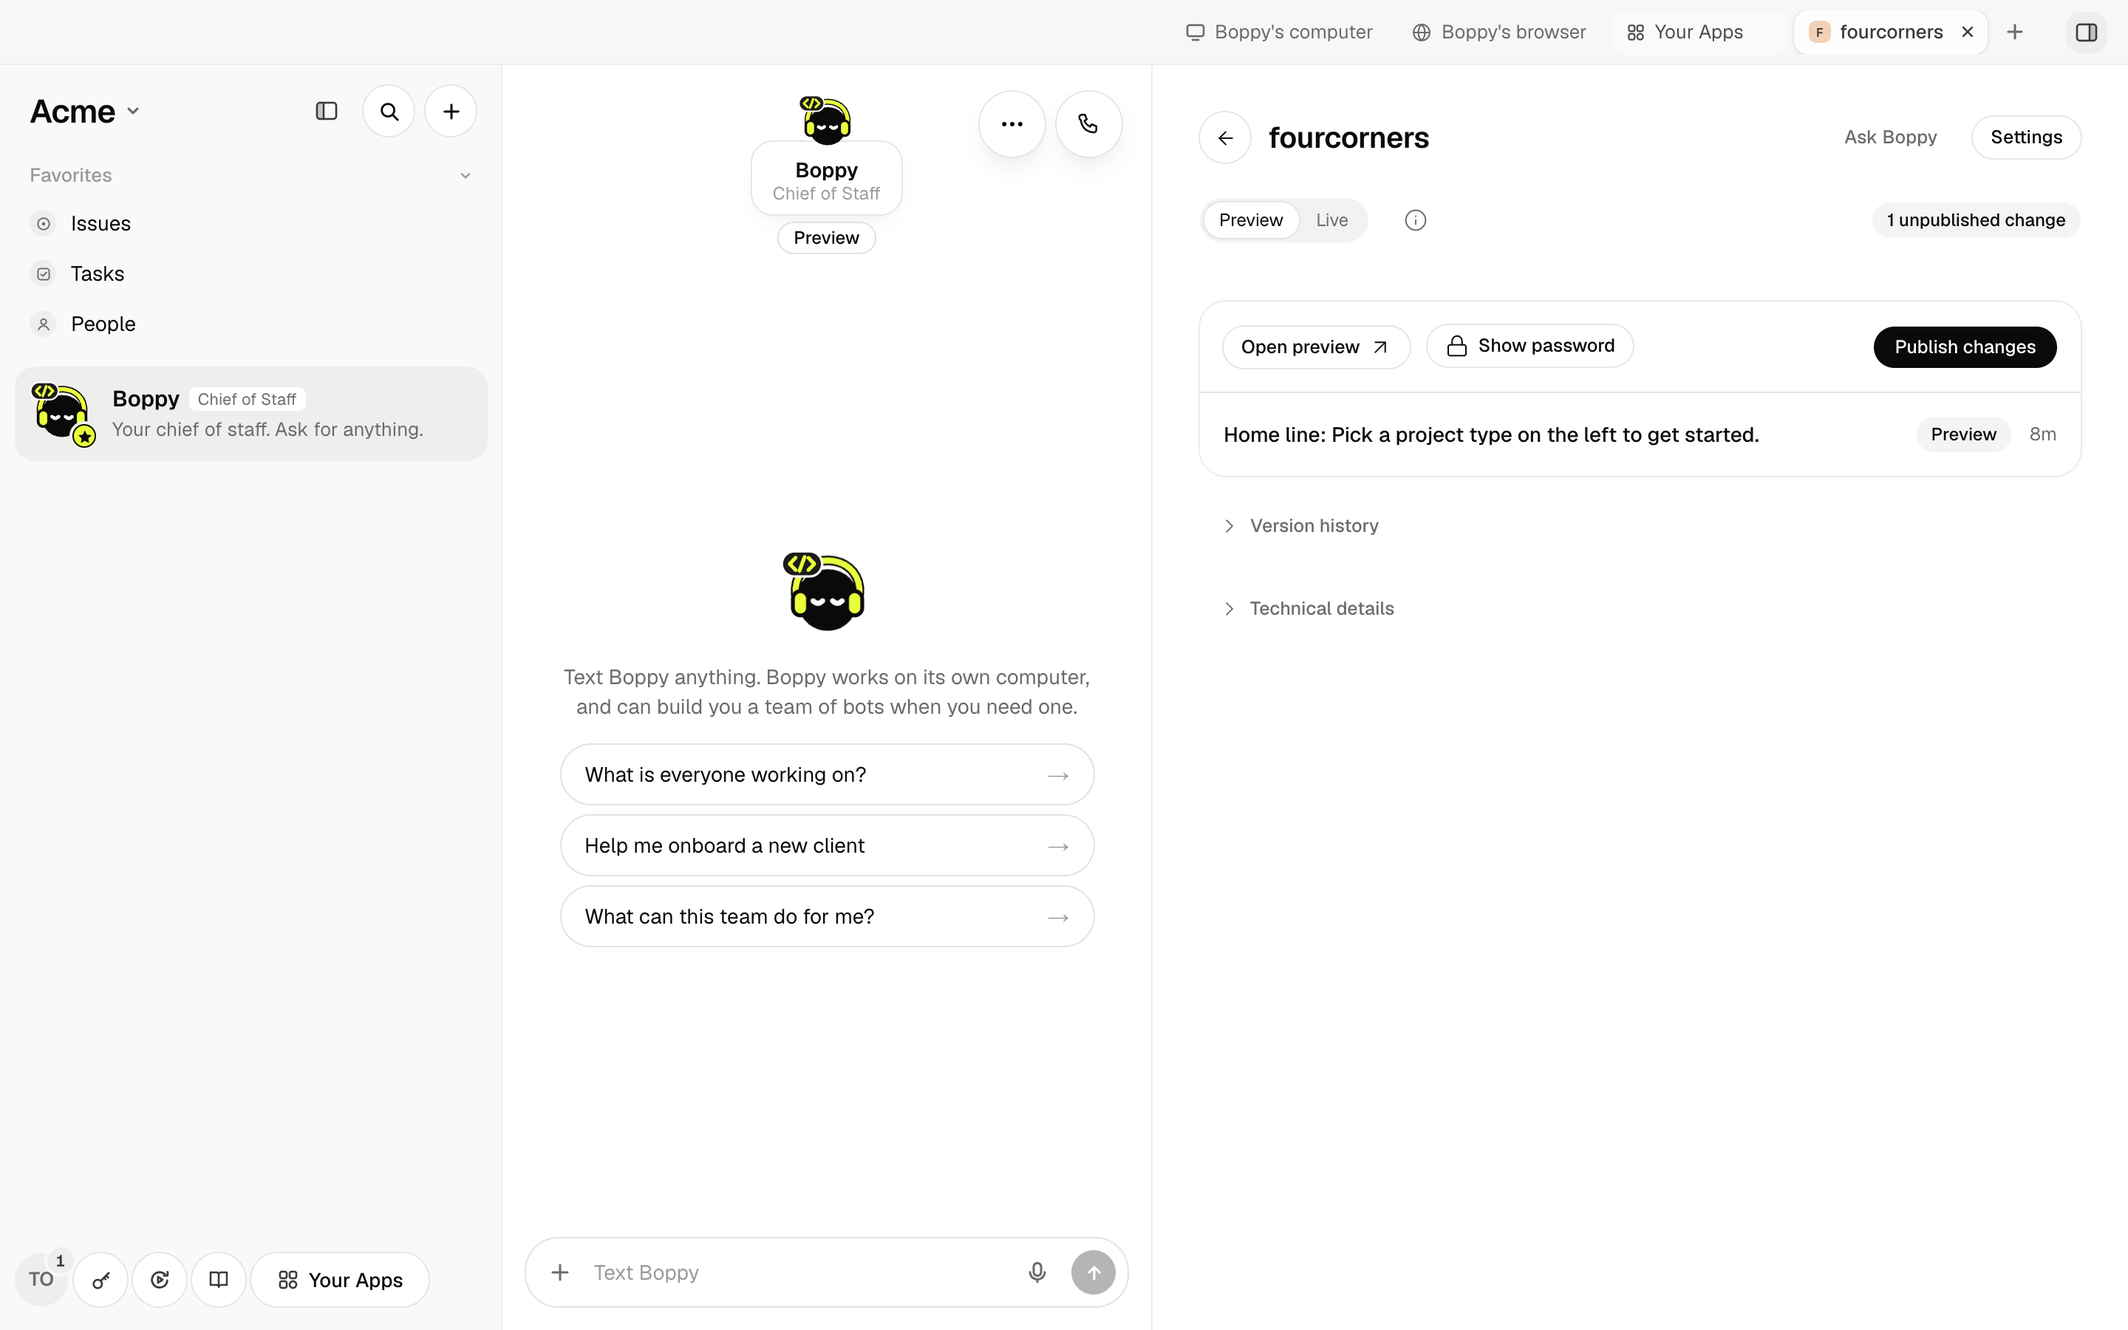
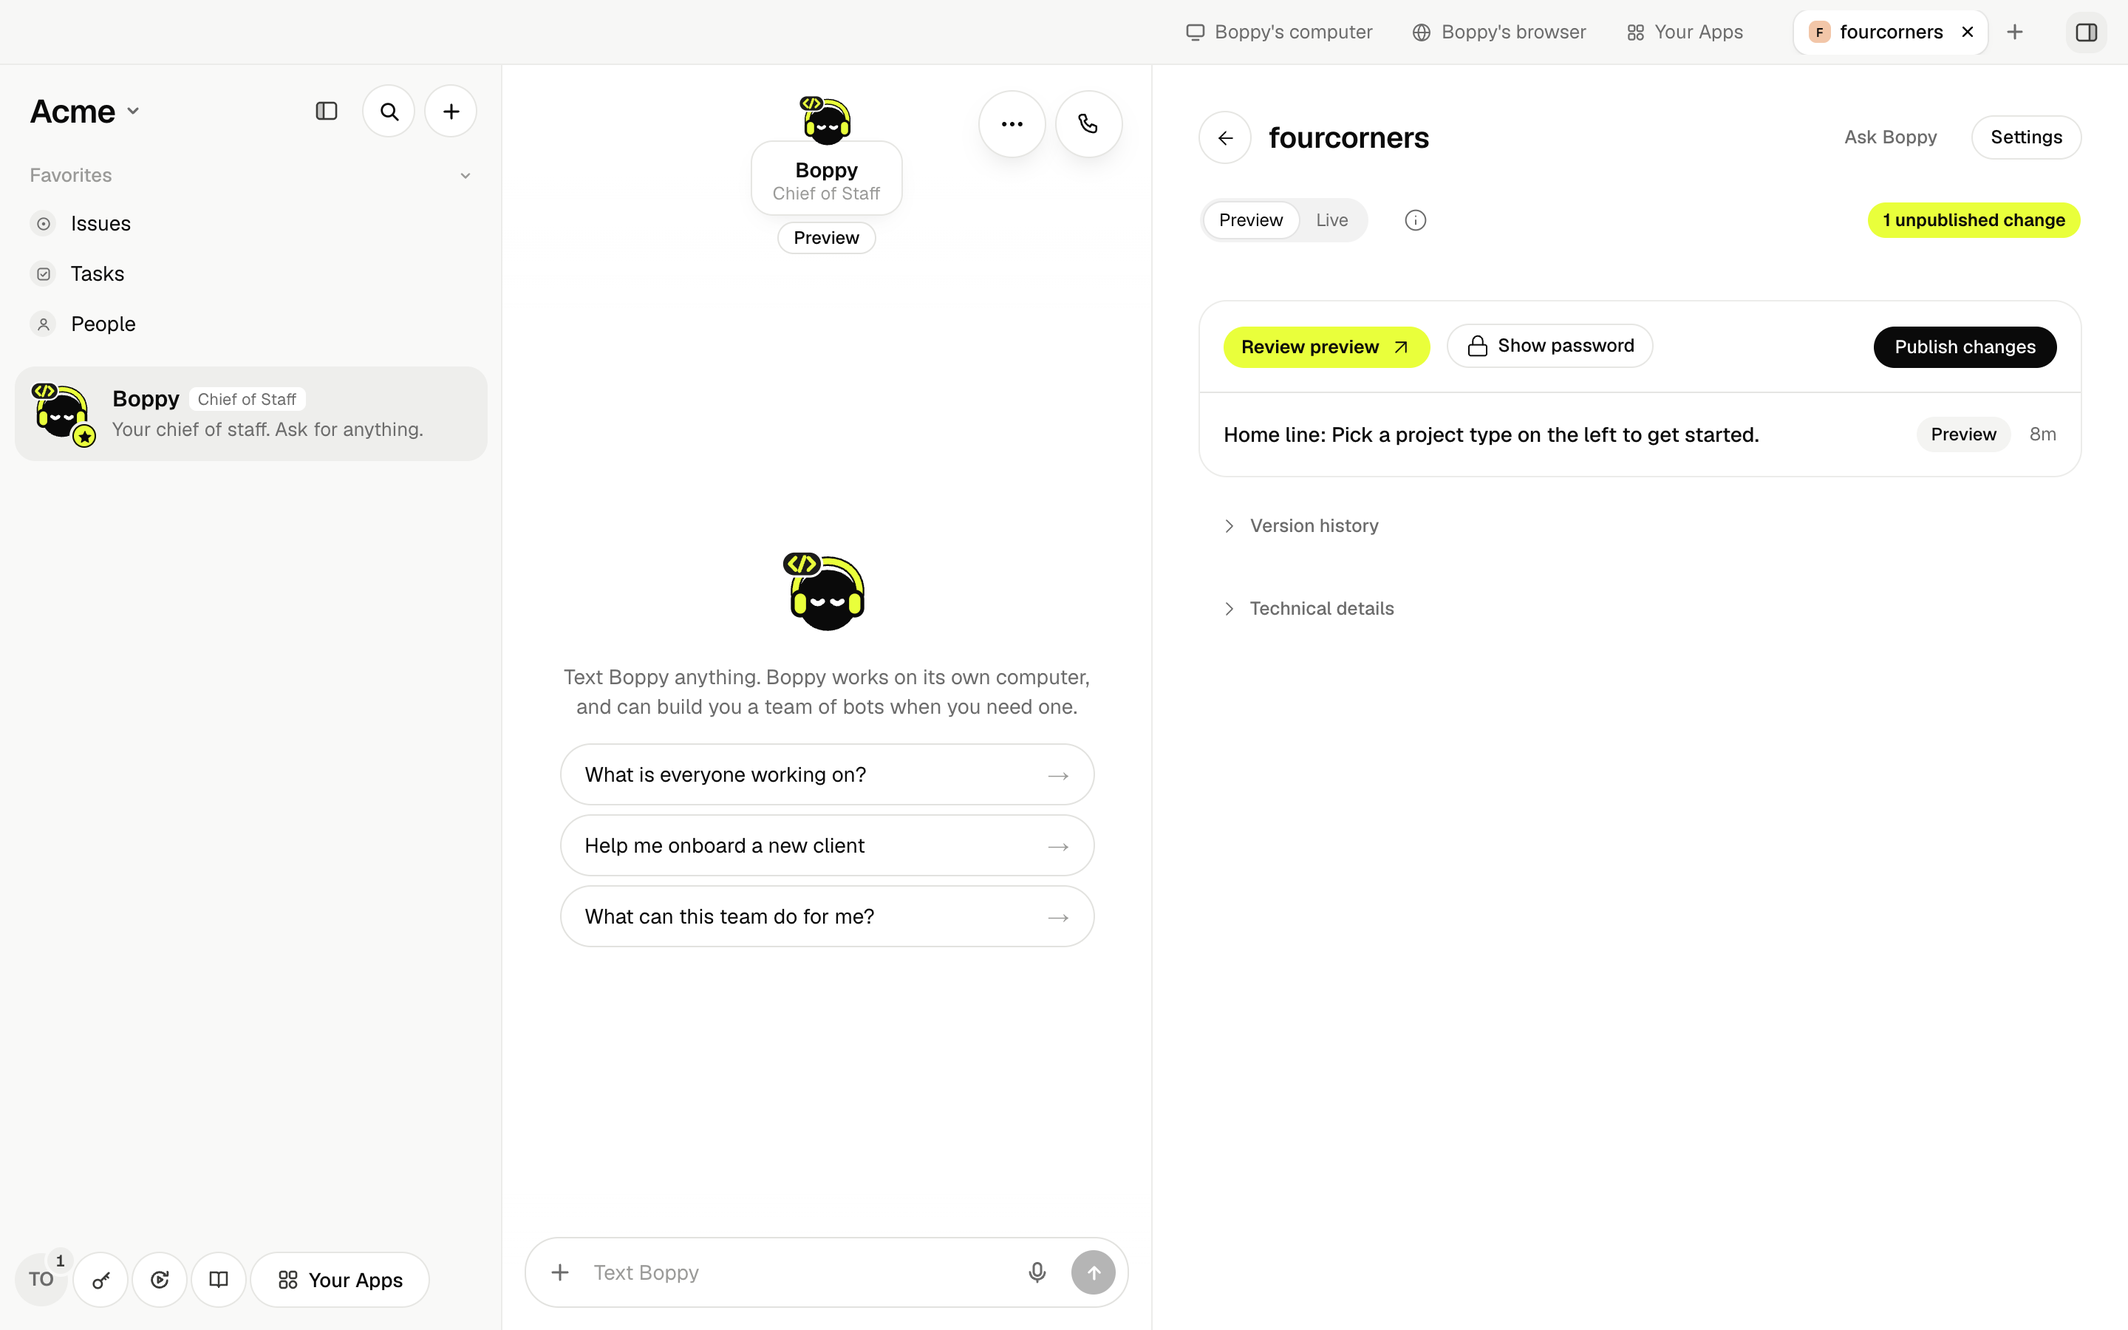
Your Apps: highlight unpublished previews for review

diff --git a/components/app/app-review.tsx b/components/app/app-review.tsx
@@ -3,8 +3,8 @@
 import { useRef, useState, type ReactNode } from "react";
 import { ArrowUpRight, Check, Copy, Info, Lock } from "lucide-react";
 import type { AppCommit } from "@/lib/hosted-apps";
-import { reviewLabel, type ReviewStatus } from "@/lib/app-review";
-import { AppDisclosure, appGhost, appIcon, appList, appOutline, appPrimary, appRow, appTag, segment, segmented } from "./app-controls";
+import { hasUnpublishedPreview, reviewLabel, type ReviewStatus } from "@/lib/app-review";
+import { AppDisclosure, appAttention, appAttentionTag, appGhost, appIcon, appList, appOutline, appPrimary, appRow, appTag, segment, segmented } from "./app-controls";
 import { Fold } from "./fold";
 import { useDismiss } from "./new-thread";
 import { ago, AskInPlace } from "./ui";
@@ -57,17 +57,18 @@ export function AppReview({ status, previewUrl, liveUrl, previewAt, publishedAt,
   const why = update ? whyUpdate : whyPublish;
   const url = env === "preview" ? previewUrl : liveUrl;
   const moved = !!confirm && (confirm.at !== previewAt || confirm.destination !== destination);
-  return <div className="flex min-w-0 flex-col gap-5" data-review-content>
+  const unpublished = hasUnpublishedPreview(status);
+  return <div className="@container flex min-w-0 flex-col gap-5" data-review-content>
     <div className="flex flex-wrap items-center gap-3">
       <div role="tablist" aria-label="App view" className={segmented}>{(["preview", "prod"] as const).map(p => <button key={p} role="tab" aria-selected={env === p} data-tip={p === "preview" ? "Review changes here before publishing." : github ? "The version last sent to GitHub. Website deployment is managed there." : "The website your visitors use. Production is the technical name."} onClick={() => { onEnv?.(p); setConfirm(null); }} className={segment(env === p)}>{p === "preview" ? "Preview" : "Live"}</button>)}</div>
       <button className={appGhost} aria-label="About preview and live" aria-expanded={help} onClick={() => setHelp(!help)}><Info {...appIcon}/></button><span className="flex-1"/>
-      <span data-review-state className={appTag} data-tip={status.sentence}>{reviewLabel(status)}</span>
+      <span data-review-state className={unpublished ? appAttentionTag : appTag} data-tip={status.sentence}>{reviewLabel(status)}</span>
     </div>
-    <Fold lazy open={help}><div data-view-help className="flex flex-col gap-2 rounded-xl bg-desk p-3 text-[13px] leading-[18px]"><p><strong>Preview</strong> is your review copy, separate from your live website.</p><p><strong>Live</strong> {github ? "shows the version last sent to GitHub. Your website updates through its connected deployment." : "is the website visitors use."}</p></div></Fold>
+    <Fold lazy open={help}><div data-view-help className="flex flex-col gap-2 rounded-xl bg-desk p-3 text-[13px] leading-[18px]"><p><strong>Preview</strong> is your review copy. Review it before starting a different change; keep editing if you’re improving this one.</p><p><strong>Live</strong> {github ? "shows the version last sent to GitHub. Your website updates through its connected deployment." : "is the website visitors use."}</p></div></Fold>
     <div className="flex flex-col rounded-2xl shadow-[0_0_0_1px_#ECECEA]">
       <div className="flex flex-wrap items-center gap-3 px-4 py-4">
-        {url ? <a href={url} target="_blank" rel="noreferrer" className={appOutline}>{env === "preview" ? "Open preview" : "Open website"}<ArrowUpRight {...appIcon}/></a> : <span className="text-[13px] text-pencil">{env === "preview" ? "No preview yet" : github ? "Website address not available" : "Not live yet"}</span>}
-        {env === "preview" && password}<span className="flex-1"/>
+        {url ? <a href={url} target="_blank" rel="noreferrer" className={env === "preview" && unpublished && !confirm ? appAttention : appOutline}>{env === "preview" ? unpublished ? "Review preview" : "Open preview" : "Open website"}<ArrowUpRight {...appIcon}/></a> : <span className="text-[13px] text-pencil">{env === "preview" ? "No preview yet" : github ? "Website address not available" : "Not live yet"}</span>}
+        {env === "preview" && password}<span className="hidden flex-1 @[512px]:block"/>
         {env === "preview" && (onUpdate || onPublish || onDomain) && <span data-tip={why ?? status.sentence}><button data-review-publish className={appPrimary} disabled={busy || sending || !!why || (!status.action && !update) || (update ? !onUpdate : domain ? !onDomain : !onPublish)} onClick={() => { if (update) onUpdate?.(); else if (domain) onDomain?.(); else if (previewAt) setConfirm({ at: previewAt, note: change?.message ?? previewAt, destination }); }}>{busy || sending ? "Working…" : label}</button></span>}
       </div>
       <div className="flex items-center gap-3 border-t border-rule px-4 py-4"><span className="min-w-0 flex-1 truncate text-[14px] font-medium leading-[18px]" title={change?.message}>{change?.message.split("\n")[0] ?? (shown ? "Version details unavailable" : "No version here yet")}</span><span className={appTag}>{env === "preview" ? "Preview" : github ? "Sent to GitHub" : "Last published"}</span>{change && <span className="shrink-0 text-[12.5px] text-pencil">{ago(change.at)}</span>}</div>

diff --git a/components/app/hosted-apps.tsx b/components/app/hosted-apps.tsx
@@ -3,8 +3,8 @@
 import { Children, createContext, useContext, useEffect, useRef, useState, useSyncExternalStore, type ReactNode } from "react";
 import { flushSync } from "react-dom";
 import { ArrowLeft, Check, ChevronDown, ChevronRight, Copy, Globe, Lock, Pencil, Plus, Trash2 } from "lucide-react";
-import { AppDisclosure, appGhost, appIcon, appList, appOutline, appRow, segmented, segment } from "./app-controls";
-import { reviewLabel, statusForApp } from "@/lib/app-review";
+import { AppDisclosure, appAttention, appGhost, appIcon, appList, appOutline, appRow, segmented, segment } from "./app-controls";
+import { hasUnpublishedPreview, reviewLabel, statusForApp } from "@/lib/app-review";
 import { DNS_TYPES, dnsNeeds } from "@/lib/hosted-apps";
 import type {
   AddAppAnswer,
@@ -648,7 +648,7 @@ export function HostedAppsList({
                 <span className="flex min-w-0 flex-1 flex-col gap-0.5"><span className="truncate text-[14px] font-medium leading-[18px]">{a.name}</span><span data-member-act={!!theirs || undefined} className={`truncate text-[12.5px] leading-[17px] ${theirs && !theirs.ok ? "text-[#B42318]" : "text-pencil"}`} title={theirs ? actLine(theirs) : a.preview?.url ?? undefined}>{theirs ? actLine(theirs) : <><span className="hidden @[600px]:inline">{urlOf(a)?.replace(/^https?:\/\//, "") ?? a.preview?.url?.replace(/^https?:\/\//, "") ?? "No preview yet"}</span><span className="@[600px]:hidden">{label}</span></>}</span></span>
               </button>
               <span data-review-state className="hidden @[600px]:block w-[120px] shrink-0 text-right text-[12px] text-pencil" data-tip={status.sentence}>{label}</span>
-              <span className="flex w-[120px] shrink-0 justify-end"><button className={appOutline} onClick={(e) => { e.stopPropagation(); open?.(ws, a.name); }}>{status.action === "publish" ? "Review changes" : "Open app"}</button></span>
+              <span className="flex w-[120px] shrink-0 justify-end"><button className={hasUnpublishedPreview(status) ? appAttention : appOutline} onClick={(e) => { e.stopPropagation(); open?.(ws, a.name); }}>{status.action === "publish" ? "Review changes" : "Open app"}</button></span>
             </div>;
           })}
           {tools}

diff --git a/components/app/app-controls.tsx b/components/app/app-controls.tsx
@@ -6,12 +6,16 @@ import { Fold } from "./fold";
 
 // Recipes shared with CRM. Keep the app's existing type, radius, and material.
 export const appIcon = { size: 16, strokeWidth: 1.5, "aria-hidden": true as const };
-export const appOutline = "inline-flex shrink-0 items-center justify-center gap-1.5 rounded-full px-3 py-1.5 text-[12.5px] font-medium leading-4 text-ink shadow-[0_0_0_1px_#E6E6E3] hover:bg-desk disabled:text-pencil";
+const appAction = "inline-flex shrink-0 items-center justify-center gap-1.5 rounded-full px-3 py-1.5 text-[12.5px] leading-4 text-ink disabled:text-pencil";
+export const appOutline = `${appAction} font-medium shadow-[0_0_0_1px_#E6E6E3] hover:bg-desk`;
+export const appAttention = `${appAction} bg-highlighter font-semibold hover:bg-highlighter/80 disabled:bg-desk`;
 export const appPrimary = "inline-flex shrink-0 items-center justify-center rounded-full bg-ink px-3.5 py-1.5 text-[12.5px] font-medium leading-4 text-paper disabled:bg-desk disabled:text-pencil";
 export const appGhost = "inline-flex shrink-0 items-center gap-1.5 rounded-full px-3 py-1.5 text-[12.5px] font-medium leading-4 text-pencil hover:bg-desk hover:text-ink disabled:opacity-50";
 export const appList = "flex flex-col overflow-hidden rounded-2xl shadow-[0_0_0_1px_#ECECEA]";
 export const appRow = "flex items-center gap-3 border-b border-rule px-3.5 py-3 hover:bg-desk";
-export const appTag = "shrink-0 rounded-full bg-desk px-2.5 py-1 text-[12px] font-medium leading-4 text-ink";
+const appTagBase = "shrink-0 rounded-full px-2.5 py-1 text-[12px] leading-4 text-ink";
+export const appTag = `${appTagBase} bg-desk font-medium`;
+export const appAttentionTag = `${appTagBase} bg-highlighter font-semibold`;
 export const segmented = "flex shrink-0 gap-0.5 rounded-full bg-black/[0.05] p-[3px]";
 export const segment = (on: boolean, blocked = false) => `rounded-full px-2.5 py-1 text-[12px] leading-4 ${on ? "bg-paper text-ink shadow-[0_0_0_1px_#0000000F]" : blocked ? "cursor-default text-[#C9C9C6]" : "text-pencil hover:text-ink"}`;
 

diff --git a/components/app/shared-apps.tsx b/components/app/shared-apps.tsx
@@ -2,8 +2,8 @@
 
 import { ChevronDown, ChevronRight } from "lucide-react";
 import { appStatus, changesBetween, type DeployState } from "@/lib/hosted-apps";
-import { reviewLabel } from "@/lib/app-review";
-import { AppDisclosure, appIcon, appList, appOutline, appRow } from "./app-controls";
+import { hasUnpublishedPreview, reviewLabel } from "@/lib/app-review";
+import { AppDisclosure, appAttention, appIcon, appList, appOutline, appRow } from "./app-controls";
 import { AppPassword, AppReview, AppVersions } from "./app-review";
 import { Fold } from "./fold";
 import { useState } from "react";
@@ -135,7 +135,7 @@ function SharedAppCard({ app: a, apps, acts, publish }: { app: SharedApp; apps: 
           <span className="flex min-w-0 flex-1 flex-col gap-0.5"><span className="truncate text-[14px] font-medium leading-[18px]">{a.name}</span><span className="truncate text-[12.5px] leading-[17px] text-pencil">{a.url?.replace(/^https?:\/\//, "") ?? site?.preview?.replace(/^https?:\/\//, "") ?? "No preview yet"}</span></span>
         </button>
         <span className="hidden w-[120px] shrink-0 text-right text-[12px] text-pencil @[600px]:block">{open ? "" : reviewLabel(status)}</span>
-        <span className="flex w-[120px] shrink-0 justify-end">{!open && <button className={appOutline} onClick={() => setOpen(true)}>{status.action === "publish" ? "Review changes" : "Open app"}</button>}</span>
+        <span className="flex w-[120px] shrink-0 justify-end">{!open && <button className={hasUnpublishedPreview(status) ? appAttention : appOutline} onClick={() => setOpen(true)}>{status.action === "publish" ? "Review changes" : "Open app"}</button>}</span>
       </div>
       {(going || acts.some((x) => x.state === "failed") || said || newest) && (
         <div className="flex flex-col gap-0.5 px-4 pb-2.5 text-[12px] leading-4">

diff --git a/lib/app-review.ts b/lib/app-review.ts
@@ -2,6 +2,9 @@ import { appStatus, changesBetween, type HostedApp, type AppCommit, type AppStat
 
 export type ReviewStatus = ReturnType<typeof appStatus>;
 
+/** A preview/release difference, not a recorded approval or an editing lock. */
+export const hasUnpublishedPreview = (status: ReviewStatus) => status.action === "publish" && status.tone === "waits";
+
 /** The Preview and the destination it was last sent to, never a claim about a GitHub deployment. */
 export function statusForApp(app: HostedApp, commits: AppCommit[] = []): ReviewStatus {
   const gh = app.hosting?.github;

diff --git a/docs/YOUR-APPS-V4.md b/docs/YOUR-APPS-V4.md
@@ -5,7 +5,10 @@ The home has one list for websites and tools. A changed website opens review rat
 | Acceptance | Proof |
 |---|---|
 | Equal rows at both widths; no Local controls or direct publish on home | Browser checks and [pictures](proof/your-apps-v4/README.md) |
-| Open preview, reveal/copy password, Escape, Live, and Ask Boppy do what they say | Browser checks at 1440px and 1180px |
+| Review preview, reveal/copy password, Escape, Live, and Ask Boppy do what they say | Browser checks at 1440px and 1180px |
+| Pending previews and review entries use the existing highlighter; quiet/working/failed states do not borrow it | Rendered UI regression and browser color checks |
+| Final confirmation quiets the earlier review action; cancellation restores it; editing remains available | Mounted UI, browser checks and Ask Boppy's unsent draft |
+| In the narrow owner view, Publish stays left-aligned on its second action line | Browser bounding boxes at 1180px |
 | Publishing names the version/destination, allows cancellation, and refuses a moved preview | Browser checks; server retains its existing pinned request |
 | Restore changes Preview and preserves a separate Publish action | Browser checks and test-app-status.mjs |
 | Settings, domains, rollback, GitHub tools, multi-site actions, Local and copies retain their request bodies | test-hosted-apps-ui.mjs; representative owner/Admin browser requests |
@@ -16,4 +19,10 @@ Run `scripts/verify your-apps --ui`. The browser uses the local sample stack and
 
 This fresh pass replaces the rejected mock in Draft #184. Related #179 carries a separate server/cloud explanation of publishing destinations; this UI keeps those contracts untouched and uses an honest confirmation for the destination currently available to it.
 
-Independent review: Claude Opus 5.5 approved after one full review and a bounded delta. Final checks: types/lint clean; app UI 80, status 13, password 10, sharing 70; browser 72 PASS with zero page/console errors at both widths. Seven review regressions failed before their fixes and pass afterward.
+The approved [Paper color pass](https://app.paper.design/file/01M7177KTDR3NA8P96W6S1GT14/p-1-0/7B-0) emphasizes a pending decision with Bops' highlighter and a named Review preview action. “Unpublished” retains its preview/release meaning; review approval is not tracked and editing stays available. Info recommends reviewing the batch before unrelated work, while allowing refinement of the same change. The final publish confirmation keeps the preceding review action quiet.
+
+Original v4 review: Claude Opus 5.5 approved after one full review and a bounded delta. Checks: types/lint clean; app UI 80, status 13, password 10, sharing 70; browser 72 PASS with zero page/console errors at both widths. Seven review regressions failed before their fixes and pass afterward.
+
+Color follow-up checks: types/lint clean; app UI 83, status 13, password 10, sharing 70. Browser checks: 91 PASS at 1440/1180 with no page or console errors. Three new regressions were added; the relevant pending/confirmation cases failed before implementation.
+
+Claude Opus 5.5 independently reran the focused gate and approved this color follow-up after one full review and a bounded screenshot delta. Captures finish finite animations before saving; both Admin pictures now show the open review controls.

diff --git a/docs/FEATURES.md b/docs/FEATURES.md
@@ -5,7 +5,7 @@ Run `scripts/verify your-apps` for the focused type, lint, request, permission, 
 | Feature | Reach it | Expected result | Files |
 |---|---|---|---|
 | Your Apps | Sidebar → Your Apps | Equal rows for websites and tools; changed websites lead to review | made-apps.tsx, hosted-apps.tsx, app-controls.tsx |
-| Review and publish | Open a website | Preview and Live; explicit confirmation names the reviewed version and destination | app-review.tsx, app-envs.tsx, lib/app-review.ts |
+| Review and publish | Open a website → Review preview | Yellow marks a pending preview/release difference; final confirmation names the reviewed version and destination | app-review.tsx, app-envs.tsx, lib/app-review.ts |
 | Password | Preview → Show password | Reveal, copy, Escape; current password fetched from the existing protected route | app-review.tsx, preview-password.tsx |
 | Versions | Version history → Restore to preview | Original preview deploy request; publishing remains a separate choice | hosted-apps.tsx, shared-apps.tsx, lib/hosted-apps.ts |
 | Advanced actions | Technical details | Local controls for owners; existing GitHub, rollback, and deployment actions | app-envs.tsx |

diff --git a/docs/proof/your-apps-v4/README.md b/docs/proof/your-apps-v4/README.md
@@ -14,3 +14,5 @@ Captured from the sample two-person app at 1440px and 1180px. Website, password,
 | Admin · 1180px | [Before](admin-1180-before.png) | [After](admin-1180-after.png) |
 
 The mock was approved before real components changed. The temporary mock routes have been removed.
+
+The latest After pictures include the approved Paper review emphasis: yellow unpublished-change badges and review entries, and a named Review preview link.
